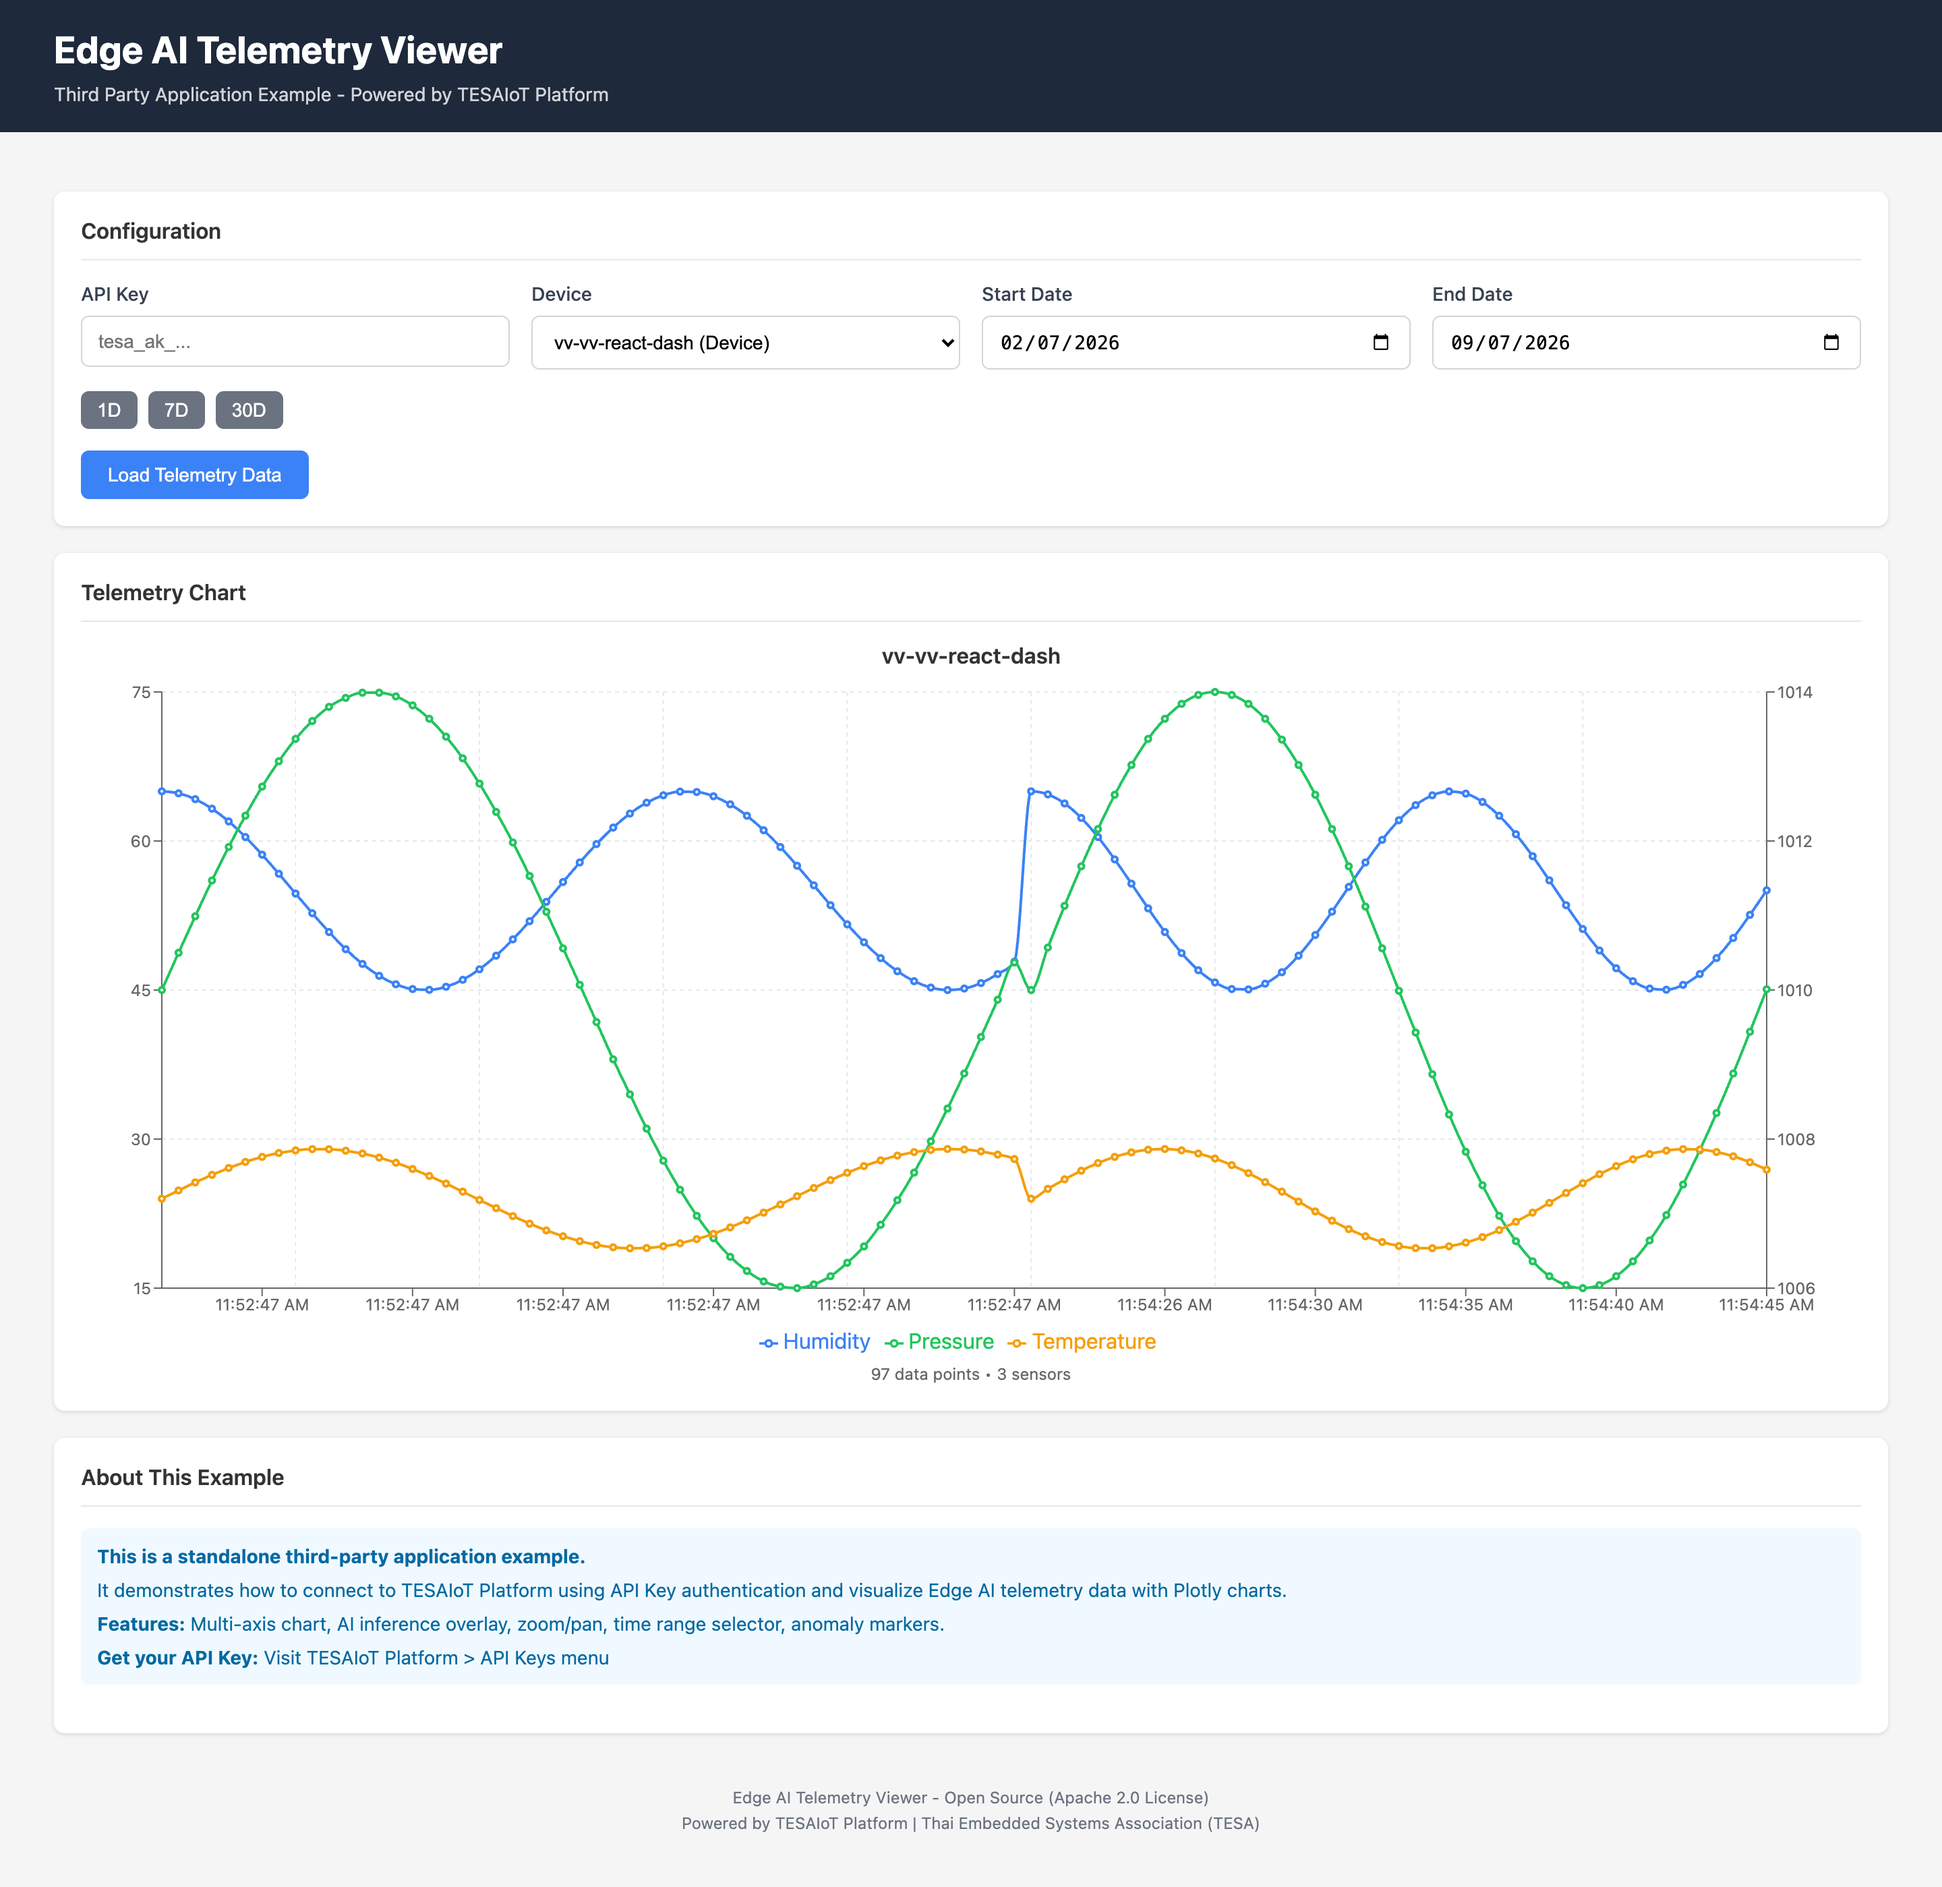
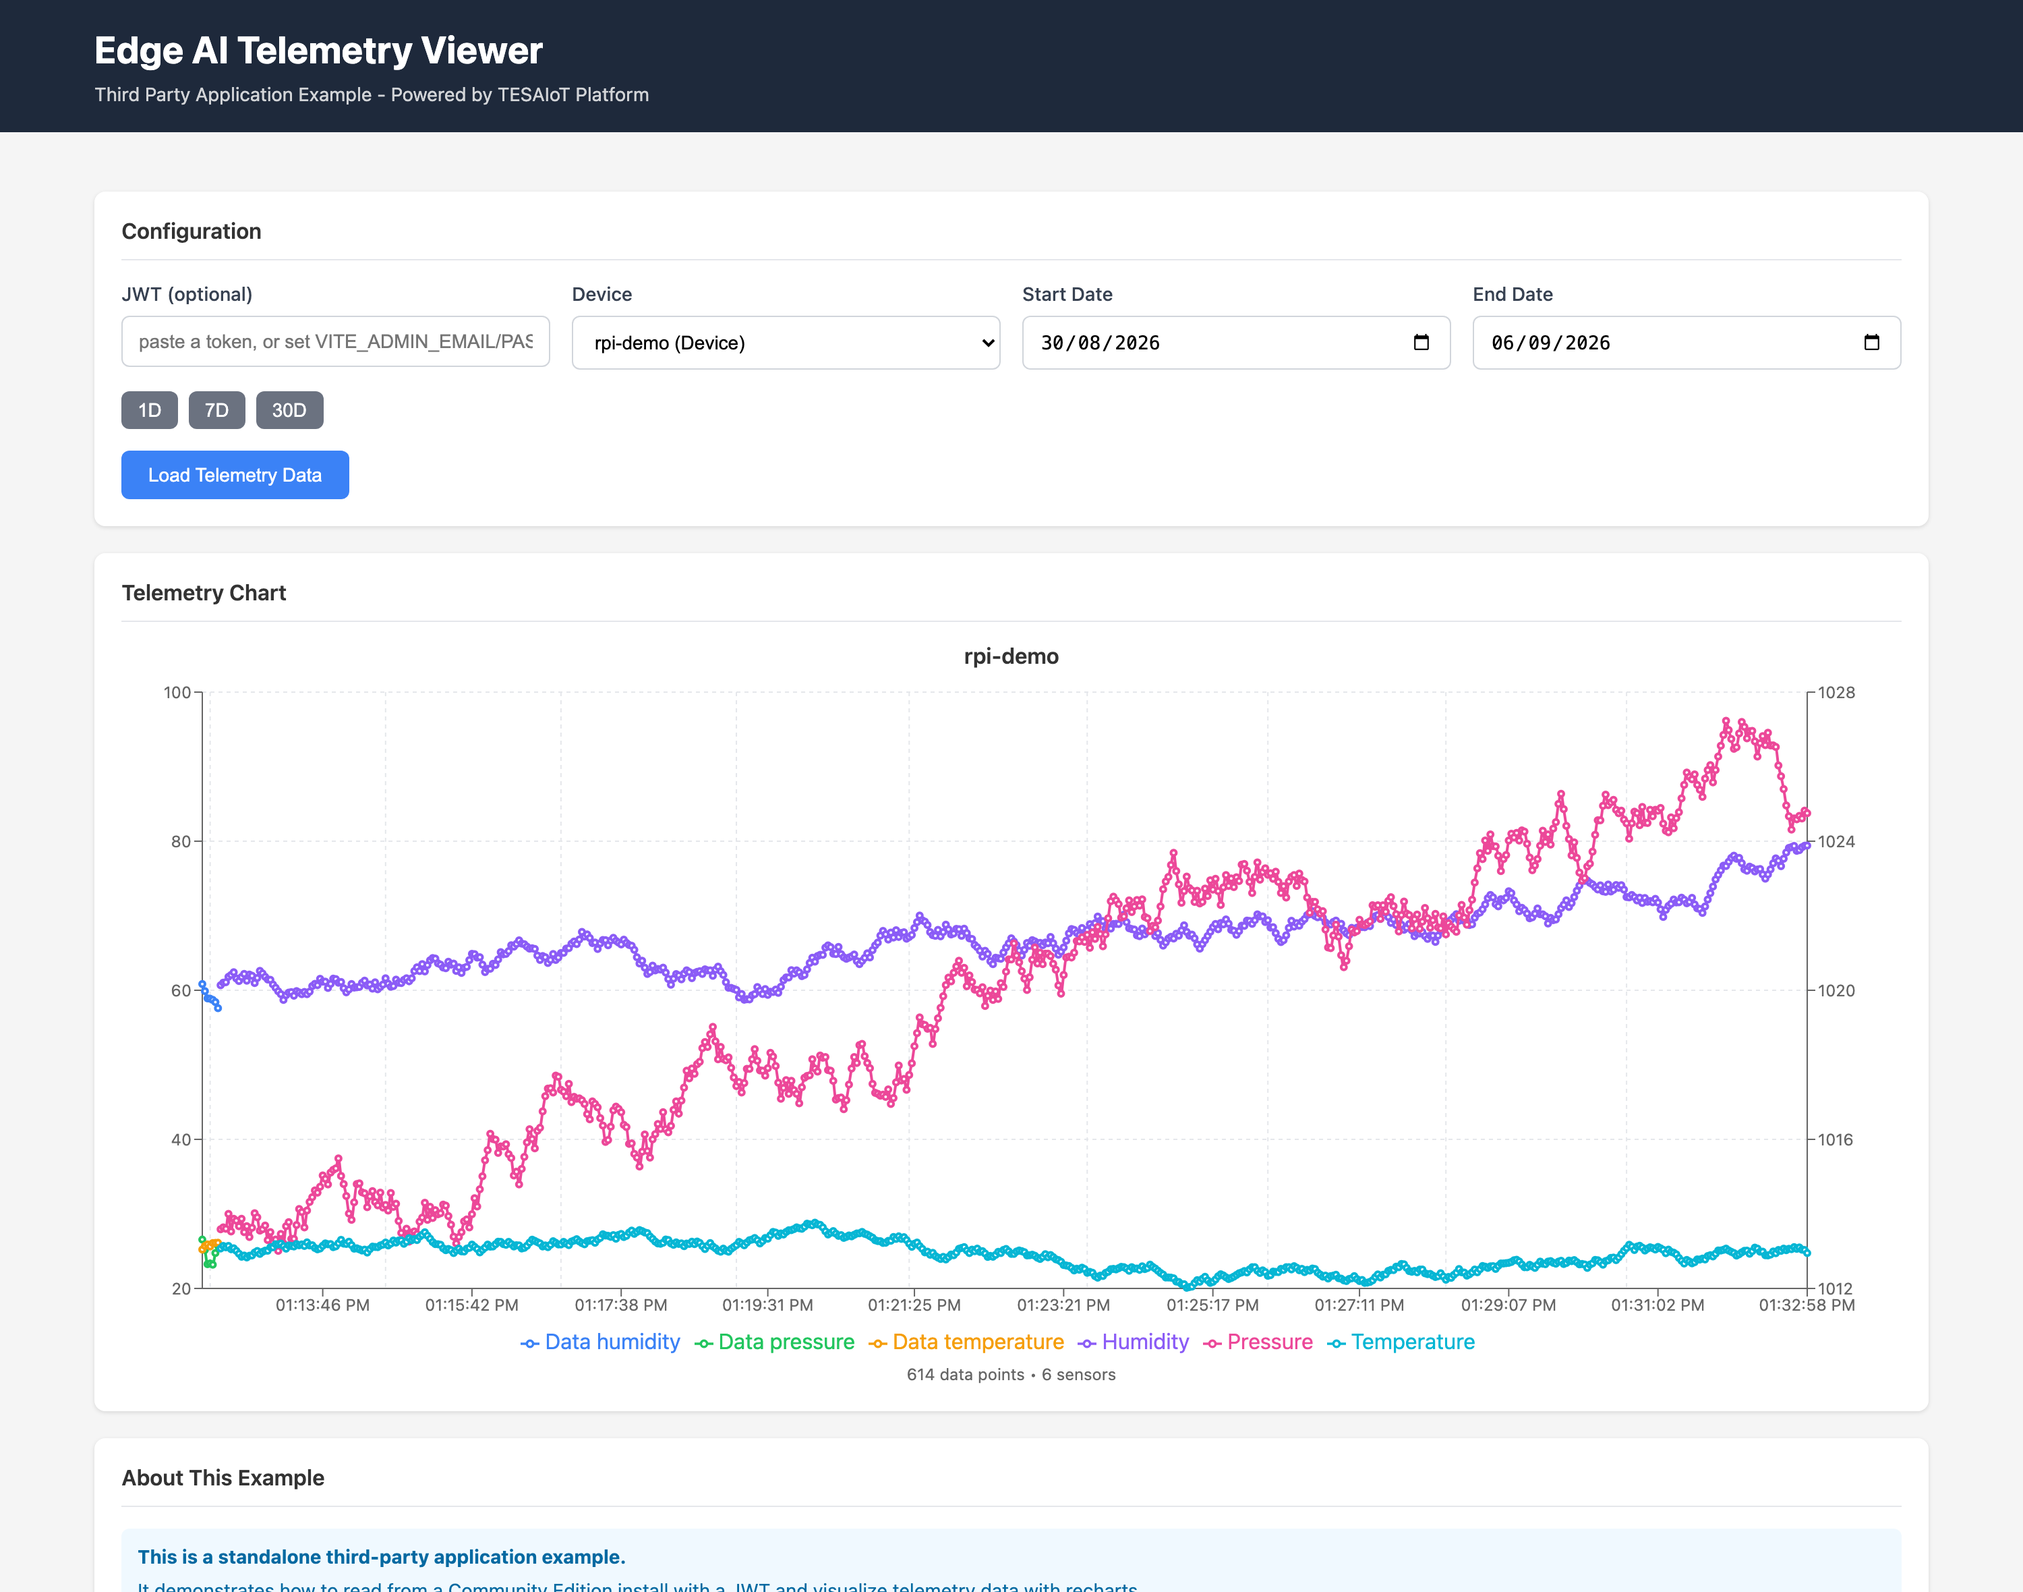
docs(examples): a how-to you can follow, and a snapshot of the UI as it is now
examples/README.md described what had been ported and what had not, and never
said how to run anything. It now opens with the sequence every example needs —
register a device, collect its credentials, point the example at your install,
run it, then confirm the rows landed in TimescaleDB. Every command in it was
executed against a running stack while writing it; one of them turned out to
return 500, which is the commit before this one.

Three things it now says that cost time to find out by hand:

- On the mTLS listener the broker still wants a username and a NON-EMPTY
  password — the device id and its API key. An empty one is rejected with
  `bad_username_or_password` after a successful TLS handshake, which reads like
  a certificate problem and is not.
- The MQTT client id must equal the device id, because CE's ACL keys off it.
- The browser dashboards must go through the Vite dev-server proxy: CE answers
  a CORS preflight 200 without an access-control-allow-origin header, so a
  direct cross-origin call from `npm run dev` is blocked. The client therefore
  stays same-origin in dev and VITE_DEV_PROXY_TARGET carries the install
  address — read with loadEnv, because vite.config runs in Node where a .env
  file is not in process.env, and reading it there silently proxied elsewhere.

The react-telemetry-dashboard screenshot was a capture of the old API-key UI,
which no longer exists. Replaced with the current interface reading 614 real
[…]

diff --git a/examples/applications/react-telemetry-dashboard/vite.config.ts b/examples/applications/react-telemetry-dashboard/vite.config.ts
@@ -1,26 +1,40 @@
-import { defineConfig } from 'vite';
 import react from '@vitejs/plugin-react';
+import { defineConfig, loadEnv } from 'vite';
 
 // https://vitejs.dev/config/
-export default defineConfig({
-  plugins: [react()],
-  server: {
-    port: 3000,
-    // Proxy API requests to YOUR Community Edition install. VITE_API_BASE_URL
-    // is the address install.sh printed; the default is a stock local install.
-    // This used to point at a hosted service, which quietly sent a
-    // self-hoster's requests to someone else's platform.
-    proxy: {
-      '/api': {
-        target: process.env.VITE_API_BASE_URL || 'https://localhost',
-        changeOrigin: true,
-        // A stock install serves its own private-PKI certificate.
-        secure: false,
+export default defineConfig(({ mode }) => {
+  // loadEnv, not process.env: Vite exposes .env to the CLIENT, and this config
+  // runs in Node, where those variables are not set. Reading process.env here
+  // silently fell through to the default target, so a dev server configured in
+  // .env proxied somewhere else entirely — on a machine running two installs,
+  // to the wrong one.
+  const env = loadEnv(mode, process.cwd(), '');
+
+  return {
+    plugins: [react()],
+    server: {
+      port: 3000,
+      // Proxy /api to YOUR Community Edition install — the address install.sh
+      // printed. This used to target a hosted service, which quietly sent a
+      // self-hoster's requests to someone else's platform.
+      //
+      // Its own variable on purpose: VITE_API_BASE_URL is what the CLIENT uses,
+      // and in dev that must stay same-origin so requests come through here.
+      // CE answers a preflight 200 without an access-control-allow-origin
+      // header, so a direct cross-origin call from the dev server is blocked.
+      proxy: {
+        '/api': {
+          target:
+            env.VITE_DEV_PROXY_TARGET || env.VITE_API_BASE_URL || 'https://localhost',
+          changeOrigin: true,
+          // A stock install serves its own private-PKI certificate.
+          secure: false,
+        },
       },
     },
-  },
-  build: {
-    outDir: 'dist',
-    sourcemap: true,
-  },
+    build: {
+      outDir: 'dist',
+      sourcemap: true,
+    },
+  };
 });

diff --git a/examples/applications/react-telemetry-dashboard/src/api/tesaiotApi.ts b/examples/applications/react-telemetry-dashboard/src/api/tesaiotApi.ts
@@ -15,7 +15,11 @@ const env = (import.meta as unknown as { env?: Record<string, string> }).env ?? 
 
 const API_CONFIG = {
   // CE edge (nginx/APISIX). Default to the local install.
-  baseUrl: env.VITE_API_BASE_URL || 'https://localhost',
+  // Same-origin under `npm run dev` so requests go through the Vite proxy.
+  // CE answers a preflight 200 but sends no access-control-allow-origin, so a
+  // direct cross-origin call from the dev server is blocked by the browser —
+  // which is what the proxy is for. A built bundle keeps an absolute default.
+  baseUrl: env.VITE_API_BASE_URL || (env.DEV ? '' : 'https://localhost'),
   // Demo credentials for the JWT login (set these in .env; never commit real ones).
   email: env.VITE_ADMIN_EMAIL || '',
   password: env.VITE_ADMIN_PASSWORD || '',

diff --git a/examples/README.md b/examples/README.md
@@ -18,6 +18,105 @@ here, and each is adapted to CE endpoints and auth.
 > TimescaleDB / Device Details). Analysis-only candidates stay in the plan below until
 > they clear that bar.
 
+## Before you start
+
+Everything below assumes **your own** install. There is no hosted service in the
+loop: the address is whatever `install.sh` printed when it finished, which on a
+stock install is `https://localhost`. A stock install also serves its own
+private-PKI certificate, so `curl` needs `-k` and browsers will warn once.
+
+Each example is run the same way: register a device, collect the credentials it
+needs, point the example at your install, run it, then confirm the data arrived.
+That last step matters — an example that prints "sent" has not proved anything.
+
+### 1. Register a device and collect its credentials
+
+```bash
+BASE=https://localhost                       # your install
+TOKEN=$(curl -sk -X POST $BASE/api/v1/auth/login \
+  -H 'Content-Type: application/json' \
+  -d "{\"email\":\"$ADMIN_EMAIL\",\"password\":\"$ADMIN_PASSWORD\"}" \
+  | python3 -c 'import json,sys; print(json.load(sys.stdin)["token"])')
+
+# auth_mode: server_tls for username/password, mtls for a client certificate
+curl -sk -X POST $BASE/api/v1/devices -H "Authorization: Bearer $TOKEN" \
+  -H 'Content-Type: application/json' \
+  -d '{"device_id":"my-device","name":"my-device","device_type":"sensor","auth_mode":"server_tls"}'
+
+# MQTT password (serverTLS) — shown once
+curl -sk -X POST $BASE/api/v1/devices/my-device/reset-mqtt-password \
+  -H "Authorization: Bearer $TOKEN"
+
+# device API key (REST ingest, and the MQTT password on the mTLS listener)
+curl -sk -X POST $BASE/api/v1/devices/my-device/regenerate-api-key \
+  -H "Authorization: Bearer $TOKEN"
+```
+
+`ADMIN_EMAIL` and `ADMIN_PASSWORD` are in the `.env` at the root of your install.
+
+For an mTLS device, download its certificate bundle:
+
+```bash
+curl -sk -o my-device.zip -H "Authorization: Bearer $TOKEN" \
+  $BASE/api/v1/certificates/devices/my-device/certificate/download/bundle
+```
+
+The bundle contains `<device_id>.pem`, `<device_id>.key`, `ca-chain.pem`,
+`endpoints.json` and a rendered `mqtt_client_config.h`. Each example's own
+README says which of those it reads and under what name — they are **not**
+always the names in the zip.
+
+### 2. Know which port to use
+
+| Listener | Port | Credential |
+|---|---|---|
+| MQTT over TLS (serverTLS) | 8884 | device id + MQTT password |
+| MQTT over mutual TLS | 8883 | client certificate **and** device id + API key as the password |
+| MQTT over WebSocket | 8083 | device id + MQTT password |
+| REST ingest / reads | 443 | device API key for ingest, JWT for reads |
+
+Two things surprise people here. On the **mTLS** listener the broker still wants
+a username and a non-empty password — the device id and its API key — and
+rejects an empty one with `bad_username_or_password` *after* a successful TLS
+handshake, which reads like a certificate fault but is not. And the MQTT
+**client id must equal the device id**: Community Edition's ACL keys off it, so
+a client id of `my-app-1` on a device called `my-device` is refused.
+
+### 3. Confirm the data actually landed
+
+```bash
+# from the install directory
+docker compose exec -e PGPASSWORD="$POSTGRES_PASSWORD" timescaledb \
+  psql -U postgres -d tesa_telemetry \
+  -c "select time, device_id, metric_name, metric_value
+        from device_telemetry where device_id='my-device'
+       order by time desc limit 10;"
+```
+
+If rows appear, the path worked end to end: device → broker → bridge →
+TimescaleDB. If the example printed success and this is empty, trust this.
+
+## Which examples run where
+
+| Example | Language | What it needs | Verified |
+|---|---|---|---|
+| `embedded-devices/rpi-servertls` | Python | `pip install -r requirements.txt` | MQTT and HTTPS modes |
+| `embedded-devices/device-servertls` | C | `make servertls` (OpenSSL) | serverTLS MQTT |
+| `embedded-devices/device-mtls` | C | `make mtls` (OpenSSL) | mutual TLS MQTT |
+| `embedded-devices/esp32-servertls` | firmware | ESP-IDF | contract only, not run here |
+| `integrations/mqtt-telemetry-simulator` | Python | `pip install -r requirements.txt` | serverTLS MQTT |
+| `security/secure-element-mtls` | Python | `pip install -r requirements.txt` | CSR → Vault → mTLS publish |
+| `applications/react-telemetry-dashboard` | Node | `npm install` | build, tests, live read |
+| `applications/live-streaming-dashboard` | Node | `npm install` | build, tests |
+| `applications/nodered-integration` | Node | `npm install && npm run build` | build |
+| `integrations/n8n-automation` | n8n | import the workflows | not run here |
+
+The two browser dashboards read through the Vite dev-server proxy rather than
+calling the API directly: Community Edition answers a CORS preflight without an
+`access-control-allow-origin` header, so a direct cross-origin call from
+`npm run dev` is blocked by the browser. Point `VITE_DEV_PROXY_TARGET` at your
+install and leave the client on the same origin.
+
 ## Snapshots (real data)
 
 Every snapshot below is **real data captured after running the example against a live
